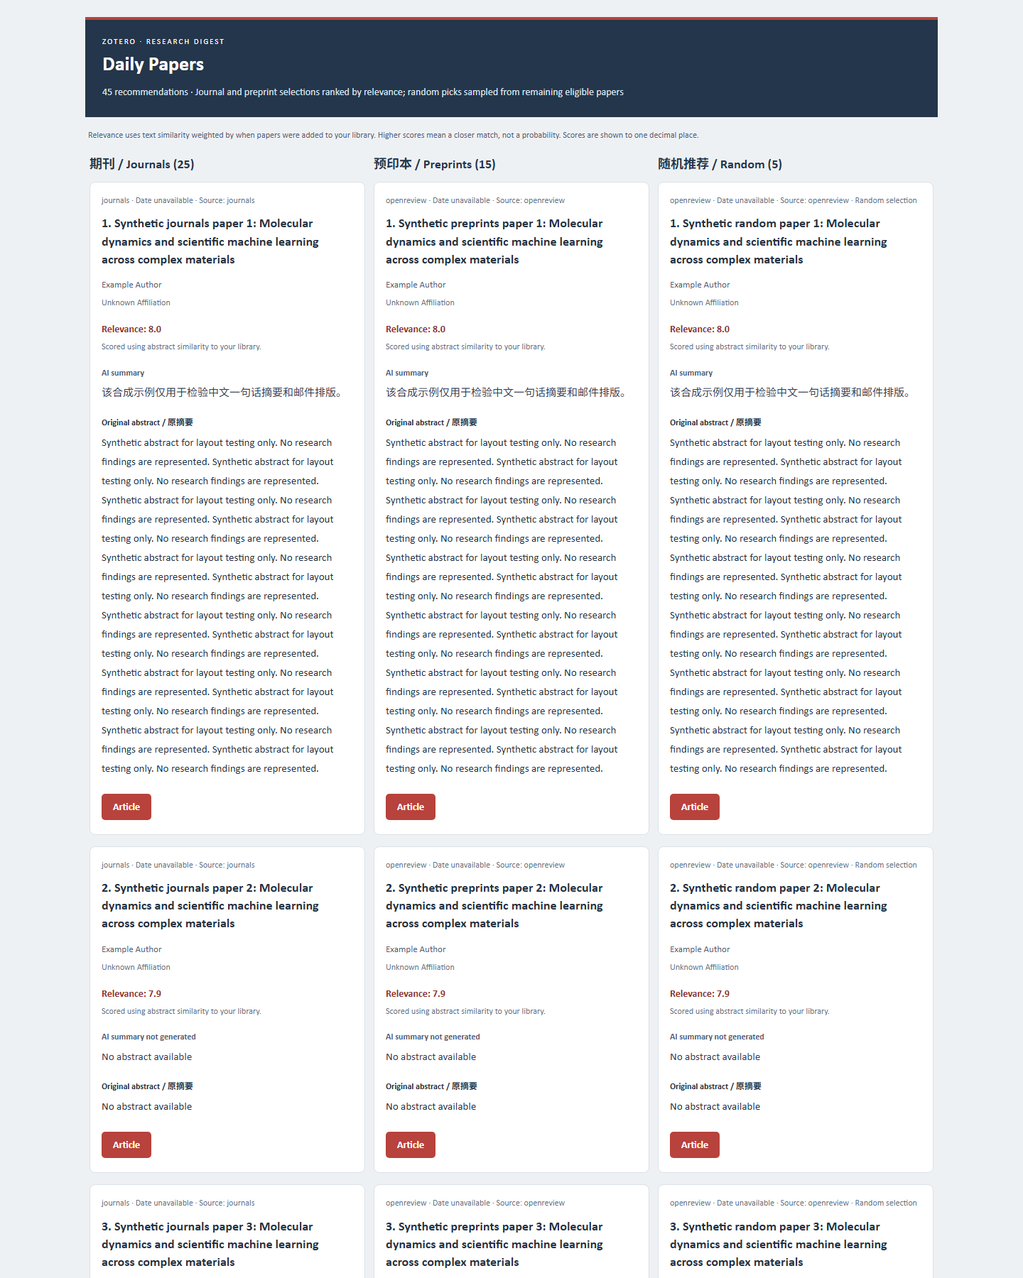
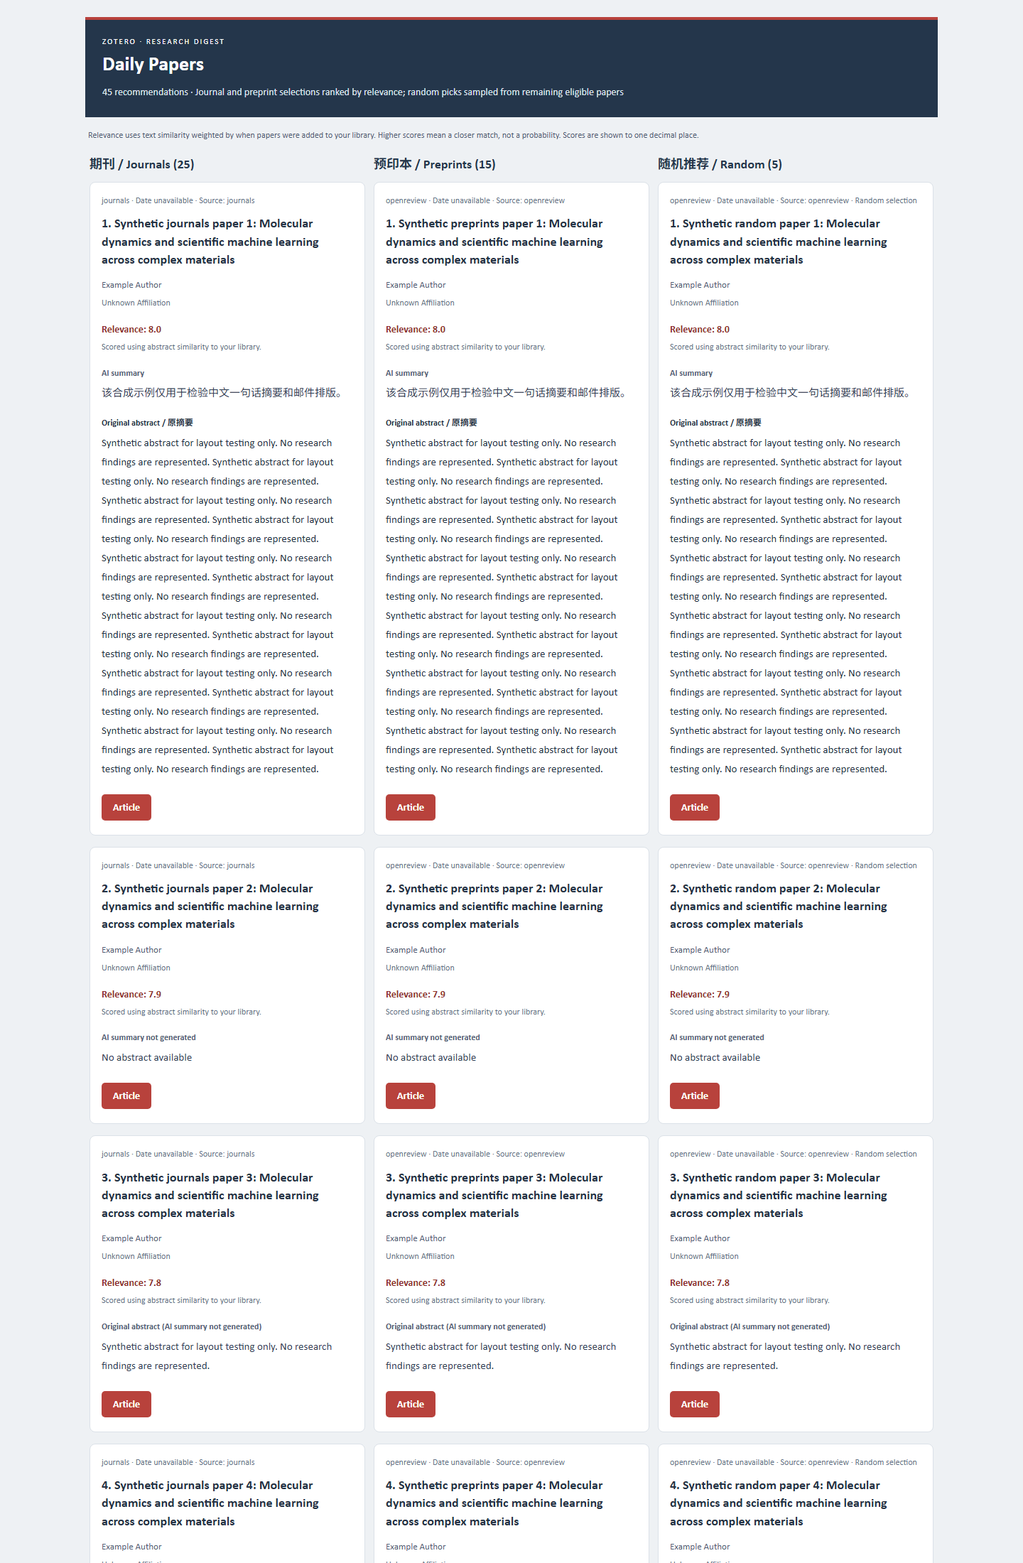
Add summary input modes and preserve abstracts in verified layouts

diff --git a/docs/previews/daily.html b/docs/previews/daily.html
@@ -2,7 +2,7 @@
 <meta name="viewport" content="width=device-width,initial-scale=1">
 <title>Daily Papers</title><style>@media only screen and (max-width:720px){.digest-column{display:block!important;width:100%!important;box-sizing:border-box!important;padding:0 0 18px!important;}}</style></head>
 <body style="font-family:Aptos,Calibri,Arial,Helvetica,sans-serif;margin:0;padding:0;background:#eef1f4;color:#253244;">
-<table role="presentation" width="100%" cellspacing="0" cellpadding="0" border="0" bgcolor="#eef1f4" style="font-family:Aptos,Calibri,Arial,Helvetica,sans-serif;"><tr><td align="center" style="font-family:Aptos,Calibri,Arial,Helvetica,sans-serif;padding:24px 12px;">
+<table role="presentation" width="100%" cellspacing="0" cellpadding="0" border="0" bgcolor="#eef1f4" style="font-family:Aptos,Calibri,Arial,Helvetica,sans-serif;table-layout:fixed;"><tr><td align="center" style="font-family:Aptos,Calibri,Arial,Helvetica,sans-serif;padding:24px 12px;">
 <!--[if mso]><table role="presentation" width="1200" style="font-family:Aptos,Calibri,Arial,Helvetica,sans-serif;"><tr><td style="font-family:Aptos,Calibri,Arial,Helvetica,sans-serif;"><![endif]-->
 <table role="presentation" width="100%" cellspacing="0" cellpadding="0" border="0" style="font-family:Aptos,Calibri,Arial,Helvetica,sans-serif;max-width:1200px;table-layout:fixed;">
 <tr><td style="font-family:Aptos,Calibri,Arial,Helvetica,sans-serif;padding:24px;background:#24364b;border-top:4px solid #b8423c;color:#ffffff;">

diff --git a/docs/previews/empty.html b/docs/previews/empty.html
@@ -2,7 +2,7 @@
 <meta name="viewport" content="width=device-width,initial-scale=1">
 <title>Daily Papers</title><style>@media only screen and (max-width:720px){.digest-column{display:block!important;width:100%!important;box-sizing:border-box!important;padding:0 0 18px!important;}}</style></head>
 <body style="font-family:Aptos,Calibri,Arial,Helvetica,sans-serif;margin:0;padding:0;background:#eef1f4;color:#253244;">
-<table role="presentation" width="100%" cellspacing="0" cellpadding="0" border="0" bgcolor="#eef1f4" style="font-family:Aptos,Calibri,Arial,Helvetica,sans-serif;"><tr><td align="center" style="font-family:Aptos,Calibri,Arial,Helvetica,sans-serif;padding:24px 12px;">
+<table role="presentation" width="100%" cellspacing="0" cellpadding="0" border="0" bgcolor="#eef1f4" style="font-family:Aptos,Calibri,Arial,Helvetica,sans-serif;table-layout:fixed;"><tr><td align="center" style="font-family:Aptos,Calibri,Arial,Helvetica,sans-serif;padding:24px 12px;">
 <!--[if mso]><table role="presentation" width="1200" style="font-family:Aptos,Calibri,Arial,Helvetica,sans-serif;"><tr><td style="font-family:Aptos,Calibri,Arial,Helvetica,sans-serif;"><![endif]-->
 <table role="presentation" width="100%" cellspacing="0" cellpadding="0" border="0" style="font-family:Aptos,Calibri,Arial,Helvetica,sans-serif;max-width:1200px;table-layout:fixed;">
 <tr><td style="font-family:Aptos,Calibri,Arial,Helvetica,sans-serif;padding:24px;background:#24364b;border-top:4px solid #b8423c;color:#ffffff;">

diff --git a/docs/previews/shortage.html b/docs/previews/shortage.html
@@ -2,7 +2,7 @@
 <meta name="viewport" content="width=device-width,initial-scale=1">
 <title>Daily Papers</title><style>@media only screen and (max-width:720px){.digest-column{display:block!important;width:100%!important;box-sizing:border-box!important;padding:0 0 18px!important;}}</style></head>
 <body style="font-family:Aptos,Calibri,Arial,Helvetica,sans-serif;margin:0;padding:0;background:#eef1f4;color:#253244;">
-<table role="presentation" width="100%" cellspacing="0" cellpadding="0" border="0" bgcolor="#eef1f4" style="font-family:Aptos,Calibri,Arial,Helvetica,sans-serif;"><tr><td align="center" style="font-family:Aptos,Calibri,Arial,Helvetica,sans-serif;padding:24px 12px;">
+<table role="presentation" width="100%" cellspacing="0" cellpadding="0" border="0" bgcolor="#eef1f4" style="font-family:Aptos,Calibri,Arial,Helvetica,sans-serif;table-layout:fixed;"><tr><td align="center" style="font-family:Aptos,Calibri,Arial,Helvetica,sans-serif;padding:24px 12px;">
 <!--[if mso]><table role="presentation" width="1200" style="font-family:Aptos,Calibri,Arial,Helvetica,sans-serif;"><tr><td style="font-family:Aptos,Calibri,Arial,Helvetica,sans-serif;"><![endif]-->
 <table role="presentation" width="100%" cellspacing="0" cellpadding="0" border="0" style="font-family:Aptos,Calibri,Arial,Helvetica,sans-serif;max-width:1200px;table-layout:fixed;">
 <tr><td style="font-family:Aptos,Calibri,Arial,Helvetica,sans-serif;padding:24px;background:#24364b;border-top:4px solid #b8423c;color:#ffffff;">

diff --git a/tests/test_daily_features.py b/tests/test_daily_features.py
@@ -163,3 +163,78 @@ def test_original_abstract_always_preserved(group,status,abstract):
         assert 'No abstract available' in html and 'No abstract available' in plain
     if status=='generated':
         assert '该研究提出新方法。' in html and 'Original abstract / 原摘要' in plain
+
+@pytest.mark.parametrize('mode,full_text,expected,reason',[
+    ('abstract','Entire full text','abstract',None),
+    ('full_text','Entire full text','full_text',None),
+    ('full_text',None,'abstract','full_text_unavailable'),
+    ('full_text','Long text '*10000,'abstract','full_text_exceeds_context_limit'),
+])
+def test_summary_input_selection_and_no_fulltext_prefix(mode,full_text,expected,reason,monkeypatch):
+    import zotero_arxiv_daily.protocol as module
+    calls=[]
+    monkeypatch.setattr(module,'truncate_prompt',lambda text,limit:text[:limit])
+    def create(**kwargs):
+        calls.append(kwargs)
+        return SimpleNamespace(choices=[SimpleNamespace(message=SimpleNamespace(content='该研究提出新方法。'))])
+    client=SimpleNamespace(chat=SimpleNamespace(completions=SimpleNamespace(create=create)))
+    p=paper(1,full_text=full_text)
+    p.generate_tldr(client,{'input_mode':mode})
+    assert p.summary_input_source==expected and p.summary_input_fallback==reason
+    assert len(calls)==1
+    prompt=calls[0]['messages'][1]['content']
+    if expected=='full_text':assert full_text in prompt and 'Abstract:' not in prompt
+    else:assert p.abstract in prompt and 'Full text:' not in prompt
+    assert p.abstract in render_email([p])
+
+def test_full_text_budget_fallback_is_one_call(config):
+    from decimal import Decimal
+    from zotero_arxiv_daily.budget import BudgetRequests, utc_day
+    config.llm.budget.enabled=True;config.llm.input_mode='full_text'
+    calls=[]
+    def create(**kwargs):
+        calls.append(kwargs)
+        return SimpleNamespace(choices=[SimpleNamespace(message=SimpleNamespace(content='该研究提出新方法。'))])
+    client=SimpleNamespace(chat=SimpleNamespace(completions=SimpleNamespace(create=create)))
+    p=paper(1,full_text='Full paper '*10000)
+    p.generate_tldr(client,config.llm,BudgetRequests(Decimal('.20'),Decimal('.004608'),utc_day()))
+    assert len(calls)==1 and p.summary_input_source=='abstract'
+    assert p.summary_input_fallback=='full_text_exceeds_budget_input_bound'
+    assert p.summary_input_fallback in render_email([p])
+
+def test_abstract_mode_never_fetches_fulltext(config):
+    from zotero_arxiv_daily.executor import Executor
+    from zotero_arxiv_daily.llm import ModelRequests
+    executor=Executor.__new__(Executor);executor.config=config;executor.openai_client=None
+    executor.model_requests=ModelRequests()
+    executor.retrievers={'journals':SimpleNamespace(enrich=lambda p:pytest.fail('abstract mode fetched full text'))}
+    executor._enrich(paper(1))
+
+@pytest.mark.parametrize('fields',[
+    {'primary_area':['unrelated'], 'secondary_area':['ai_4_physical_sciences']},
+    {'primary_area':'applications->chemistry_physics_and_earth_sciences'},
+    {'primary_area':'applications to physical sciences (physics, chemistry, biology, etc.)'},
+])
+def test_venue_schema_subject_aliases(config,fields):
+    r=retriever(config)
+    assert r.convert_to_paper(note(r,**fields)).subject_match_reason.startswith('subject field')
+
+def test_corl_author_keyword_gate(config):
+    r=retriever(config)
+    raw=note(r,title='Robot planning',abstract='Experiments',primary_area=None,free_keyword_1='molecular dynamics')
+    assert r.convert_to_paper(raw)
+
+def test_next_year_iclr_group_discovery(config):
+    r=retriever(config);seen=[]
+    def get(client,path,params):
+        identity=params['id'];seen.append(identity)
+        return {'groups':[{'id':identity,'content':{'submission_id':{'value':identity+'/-/Submission'}}}]}
+    r._get=get
+    groups=list(r._groups(None,'ICLR',2026))
+    assert 'ICLR.cc/2027/Conference' in seen
+    assert all('/Workshop' not in group for group,inv in groups)
+
+def test_invalid_summary_mode_fails_before_source_or_api_setup(config):
+    from zotero_arxiv_daily.executor import Executor
+    config.llm.input_mode='prefix'
+    with pytest.raises(ValueError,match='input_mode'):Executor(config)

diff --git a/src/zotero_arxiv_daily/protocol.py b/src/zotero_arxiv_daily/protocol.py
@@ -47,6 +47,8 @@ class Paper:
     abstract_source: Optional[str] = None
     subject_match_reason: Optional[str] = None
     scoring_basis: str = "abstract"
+    summary_input_source: Optional[str] = None
+    summary_input_fallback: Optional[str] = None
     tldr_status: Optional[str] = None
     tldr_error: Optional[str] = None
 
@@ -67,28 +69,36 @@ class Paper:
 
     def _generate_tldr_with_llm(self, openai_client:OpenAI,llm_params:dict) -> str:
         lang = llm_params.get('language', 'Chinese')
-        prompt = f"Given the following information of a paper, generate a one-sentence TLDR summary in {lang}:\n\n"
-        if self.title:
-            prompt += f"Title:\n {self.title}\n\n"
-
-        if self.abstract:
-            prompt += f"Abstract: {self.abstract}\n\n"
-
-        if self.full_text:
-            prompt += f"Preview of main content:\n {self.full_text}\n\n"
-
-        if not self.full_text and not self.abstract:
-            logger.warning(f"Neither full text nor abstract is provided for {self.url}")
-            return "Failed to generate TLDR. Neither full text nor abstract is provided"
-        
-        # use gpt-4o tokenizer for estimation
+        mode = llm_params.get('input_mode', 'abstract')
+        if mode not in ('abstract', 'full_text'):
+            raise ValueError('llm.input_mode must be abstract or full_text')
         budgeted = llm_params.get('budget', {}).get('enabled', False)
+        self.summary_input_source, self.summary_input_fallback = 'abstract', None
+        title = self.title
         if budgeted:
-            short_title = self.title.encode('utf-8')[:128].decode('utf-8', errors='ignore')
-            prompt = f'Title: {short_title}\nAbstract: {self.abstract}'
-            prompt = prompt.encode('utf-8')[:PROMPT_BYTES].decode('utf-8', errors='ignore')
+            title = title.encode('utf-8')[:128].decode('utf-8', errors='ignore')
+        full_prompt = f'Title: {title}\nFull text:\n{self.full_text or ""}'
+        if mode == 'full_text':
+            if not self.full_text:
+                self.summary_input_fallback = 'full_text_unavailable'
+            elif budgeted and len(full_prompt.encode('utf-8')) > PROMPT_BYTES:
+                self.summary_input_fallback = 'full_text_exceeds_budget_input_bound'
+            elif not budgeted and truncate_prompt(full_prompt, 4000) != full_prompt:
+                self.summary_input_fallback = 'full_text_exceeds_context_limit'
+            else:
+                self.summary_input_source = 'full_text'
+        if self.summary_input_source == 'full_text':
+            prompt = full_prompt  # Entire retrieved text, never a prefix labeled as full text.
         else:
-            prompt = truncate_prompt(prompt, 4000)
+            if self.summary_input_fallback:
+                logger.warning(f'Summary input fallback to abstract: {self.summary_input_fallback}')
+            if not self.abstract:
+                raise ValueError('No usable summary input after full-text fallback')
+            prompt = f'Title: {title}\nAbstract: {self.abstract}'
+            if budgeted:
+                prompt = prompt.encode('utf-8')[:PROMPT_BYTES].decode('utf-8', errors='ignore')
+            else:
+                prompt = truncate_prompt(prompt, 4000)
         system = f'Return exactly one sentence in {lang} summarizing the scientific evidence. No heading, list, or invented claims.'
         kwargs = dict(llm_params.get('generation_kwargs', {}))
         if budgeted:
@@ -116,7 +126,7 @@ class Paper:
     
     def generate_tldr(self, openai_client:OpenAI,llm_params:dict, requests=None) -> str:
         self.tldr_error = None
-        if not self.abstract and (not self.full_text or llm_params.get('budget', {}).get('enabled', False)):
+        if not self.abstract and (llm_params.get('input_mode', 'abstract') != 'full_text' or not self.full_text):
             self.tldr, self.tldr_status = '', 'not_generated'
             return self.tldr
         try:

diff --git a/src/zotero_arxiv_daily/budget.py b/src/zotero_arxiv_daily/budget.py
@@ -33,6 +33,8 @@ def utc_day():
 
 def budget_plan(config):
     budget = config.get('budget', {})
+    if budget.get('enabled', True) is not True:
+        raise BudgetUnavailable('Budget guard disabled: paid calls prohibited, not unlimited')
     cap = Decimal(str(budget.get('daily_cny', '0.20')))
     if not cap.is_finite() or not 0 < cap <= MAX_DAILY_CNY:
         raise BudgetUnavailable('Daily CNY budget must be positive and no more than 0.20')
@@ -53,7 +55,10 @@ def budget_plan(config):
 
 
 def git(*args, **kwargs):
-    result = subprocess.run(['git', *args], capture_output=True, **kwargs)
+    try:
+        result = subprocess.run(['git', *args], capture_output=True, timeout=60, **kwargs)
+    except (OSError, subprocess.TimeoutExpired) as exc:
+        raise BudgetUnavailable('Budget ledger Git operation unavailable; no model call authorized') from exc
     if result.returncode:
         raise BudgetUnavailable('Budget ledger Git operation failed; no model call authorized')
     return result.stdout.strip()
@@ -68,7 +73,10 @@ def reserve_day(cap, day=None):
         git('fetch', '--no-tags', 'origin', f'refs/heads/{branch}')
         parent = git('rev-parse', 'FETCH_HEAD').decode()
         exists = subprocess.run(['git', 'cat-file', '-e', f'{parent}:{name}'], capture_output=True)
-        data = json.loads(git('show', f'{parent}:{name}')) if exists.returncode == 0 else {'version': 1, 'days': {}}
+        try:
+            data = json.loads(git('show', f'{parent}:{name}')) if exists.returncode == 0 else {'version': 1, 'days': {}}
+        except (ValueError, TypeError) as exc:
+            raise BudgetUnavailable('Invalid budget ledger; preserve and investigate') from exc
         if not isinstance(data, dict) or data.get('version') != 1 or not isinstance(data.get('days'), dict):
             raise BudgetUnavailable('Invalid budget ledger; preserve and investigate')
         if day in data['days']:
@@ -85,7 +93,10 @@ def reserve_day(cap, day=None):
             git('update-index','--add','--cacheinfo',f'100644,{blob},{name}',env=config)
             tree = git('write-tree',env=config).decode()
             commit = git('commit-tree',tree,'-p',parent,'-m','Reserve daily LLM budget before requests',env=config).decode()
-            pushed = subprocess.run(['git','push','origin',f'{commit}:refs/heads/{branch}'],capture_output=True)
+            try:
+                pushed = subprocess.run(['git','push','origin',f'{commit}:refs/heads/{branch}'],capture_output=True,timeout=60)
+            except (OSError, subprocess.TimeoutExpired) as exc:
+                raise BudgetUnavailable('Budget reservation push ambiguous; no paid calls authorized') from exc
             if pushed.returncode == 0:
                 return day
             # A concurrent writer may have advanced the branch. Re-fetch and

diff --git a/src/zotero_arxiv_daily/executor.py b/src/zotero_arxiv_daily/executor.py
@@ -39,6 +39,8 @@ def normalize_path_patterns(patterns: list[str] | ListConfig | None, config_key:
 class Executor:
     def __init__(self, config: DictConfig):
         self.config = config
+        if config.llm.get("input_mode", "abstract") not in ("abstract", "full_text"):
+            raise ValueError("llm.input_mode must be abstract or full_text")
         self.include_path_patterns = normalize_path_patterns(config.zotero.include_path, "include_path")
         self.ignore_path_patterns = normalize_path_patterns(config.zotero.ignore_path, "ignore_path")
         self.retrievers = {source: get_retriever_cls(source)(config) for source in enabled_sources(config)}
@@ -106,7 +108,7 @@ class Executor:
         return corpus
 
     def _enrich(self, paper):
-        if self.config.executor.get('fetch_full_text', True):
+        if self.config.llm.get('input_mode', 'abstract') == 'full_text' and self.openai_client:
             retriever = self.retrievers.get(paper.source)
             if retriever:
                 try:
@@ -214,16 +216,13 @@ class Executor:
         ranked = select_papers(ranked, quotas, pending)[:maximum]
         if ranked and self.config.llm.get('enabled', True):
             try:
-                if self.config.llm.get('budget', {}).get('enabled', False):
-                    self.model_requests = prepare_budget(self.config.llm)
-                    self.openai_client = OpenAI(api_key=self.config.llm.api.key, base_url=self.config.llm.api.base_url, max_retries=0)
-                else:
-                    self.openai_client = OpenAI(api_key=self.config.llm.api.key, base_url=self.config.llm.api.base_url)
+                self.model_requests = prepare_budget(self.config.llm)
+                self.openai_client = OpenAI(api_key=self.config.llm.api.key, base_url=self.config.llm.api.base_url, max_retries=0)
             except BudgetUnavailable as exc:
                 self.llm_blocked_reason = str(exc)
                 logger.warning(f'LLM budget guard: {exc}')
         # Fork-based PDF extraction must run outside worker threads.
-        if workers > 1 and not self.config.executor.get('fetch_full_text', True):
+        if workers > 1 and self.config.llm.get('input_mode', 'abstract') != 'full_text':
             with ThreadPoolExecutor(max_workers=workers) as pool:
                 ranked = list(pool.map(self._enrich, ranked))
         else:

diff --git a/tests/test_budget.py b/tests/test_budget.py
@@ -11,11 +11,13 @@ from zotero_arxiv_daily.protocol import Paper
 
 
 def test_production_pricing_is_fail_closed(config):
+    config.llm.budget.enabled=True
     with pytest.raises(budget.BudgetUnavailable,match='not verified'):
         budget.budget_plan(config.llm)
 
 
 def test_verified_plan_rejects_unknown_endpoint_model_and_limit(config,monkeypatch):
+    config.llm.budget.enabled=True
     monkeypatch.setattr(budget,'VERIFIED_PRICING',{'host':'test.example','model':'test-model','valid_through':'2099-01-01','input_cny_per_million':'3','output_cny_per_million':'9'})
     config.llm.api.base_url='https://test.example/v1';config.llm.generation_kwargs.model='test-model'
     cap,cost=budget.budget_plan(config.llm)
@@ -115,3 +117,28 @@ def test_unicode_prompt_bound_and_reasoning_stops_calls(config,monkeypatch):
     assert request['n']==1 and request['max_tokens']==128 and request['extra_body']=={'enable_thinking':False}
     p.generate_tldr(client,config.llm,guard)
     assert len(calls)==1
+
+
+def test_disabled_budget_does_not_mean_unlimited(config):
+    config.llm.budget.enabled=False
+    with pytest.raises(budget.BudgetUnavailable,match='paid calls prohibited'):
+        budget.budget_plan(config.llm)
+
+
+def test_executor_fail_closed_retains_abstract_without_client(config,monkeypatch,tmp_path):
+    from zotero_arxiv_daily.executor import Executor
+    from zotero_arxiv_daily.state import State
+    from tests.canned_responses import make_stub_zotero_client,make_sample_paper
+    from zotero_arxiv_daily.reranker.api import ApiReranker
+    import numpy as np
+    monkeypatch.setattr('zotero_arxiv_daily.executor.prepare_budget',budget.prepare_budget)
+    monkeypatch.setattr('zotero_arxiv_daily.executor.OpenAI',lambda **kw:pytest.fail('Blocked budget created client'))
+    monkeypatch.setattr('zotero_arxiv_daily.executor.zotero.Zotero',lambda *a,**kw:make_stub_zotero_client())
+    monkeypatch.setattr(ApiReranker,'get_similarity_score',lambda self,a,b:np.ones((len(a),len(b))))
+    config.llm.budget.enabled=True
+    executor=Executor(config)
+    p=make_sample_paper()
+    monkeypatch.setattr(executor.retrievers['arxiv'],'retrieve_papers',lambda:[p])
+    selected=executor._recommend(State(tmp_path/'state.json'),[],10,1)
+    assert selected and selected[0].tldr==p.abstract
+    assert selected[0].tldr_error=='budget_unavailable'

diff --git a/src/zotero_arxiv_daily/construct_email.py b/src/zotero_arxiv_daily/construct_email.py
@@ -28,7 +28,7 @@ framework = '''<!doctype html><html lang="en"><head><meta charset="utf-8">
 <meta name="viewport" content="width=device-width,initial-scale=1">
 <title>Daily Papers</title><style>@media only screen and (max-width:720px){.digest-column{display:block!important;width:100%!important;box-sizing:border-box!important;padding:0 0 18px!important;}}</style></head>
 <body style="font-family:Aptos,Calibri,Arial,Helvetica,sans-serif;margin:0;padding:0;background:#eef1f4;color:#253244;">
-<table role="presentation" width="100%" cellspacing="0" cellpadding="0" border="0" bgcolor="#eef1f4" style="font-family:Aptos,Calibri,Arial,Helvetica,sans-serif;"><tr><td align="center" style="font-family:Aptos,Calibri,Arial,Helvetica,sans-serif;padding:24px 12px;">
+<table role="presentation" width="100%" cellspacing="0" cellpadding="0" border="0" bgcolor="#eef1f4" style="font-family:Aptos,Calibri,Arial,Helvetica,sans-serif;table-layout:fixed;"><tr><td align="center" style="font-family:Aptos,Calibri,Arial,Helvetica,sans-serif;padding:24px 12px;">
 <!--[if mso]><table role="presentation" width="1200" style="font-family:Aptos,Calibri,Arial,Helvetica,sans-serif;"><tr><td style="font-family:Aptos,Calibri,Arial,Helvetica,sans-serif;"><![endif]-->
 <table role="presentation" width="100%" cellspacing="0" cellpadding="0" border="0" style="font-family:Aptos,Calibri,Arial,Helvetica,sans-serif;max-width:1200px;table-layout:fixed;">
 <tr><td style="font-family:Aptos,Calibri,Arial,Helvetica,sans-serif;padding:24px;background:#24364b;border-top:4px solid #b8423c;color:#ffffff;">
@@ -86,6 +86,10 @@ def render_email(papers: list[Paper]) -> str:
             metadata = f'{p.journal or p.source} · {date} · Source: {p.source}'
             if group == 'random':
                 metadata += ' · Random selection'
+            if p.summary_input_source:
+                metadata += f' · Summary input: {p.summary_input_source}'
+                if p.summary_input_fallback:
+                    metadata += f' ({p.summary_input_fallback})'
             if p.abstract_source:
                 metadata += f' · Abstract: {p.abstract_source}'
             block = get_block_html(p.title, ', '.join(authors), round(p.score, 1) if p.score is not None else 'Unknown',

diff --git a/tests/test_pipeline.py b/tests/test_pipeline.py
@@ -67,6 +67,10 @@ def test_enrichment_runs_only_for_selected_papers(pipeline, monkeypatch):
     with open_dict(pipeline):
         pipeline.executor.max_paper_num = 1
         pipeline.executor.fetch_full_text = True
+        pipeline.llm.input_mode = 'full_text'
+        pipeline.llm.enabled = True
+    from tests.canned_responses import make_stub_openai_client
+    monkeypatch.setattr('zotero_arxiv_daily.executor.OpenAI', lambda **kwargs: make_stub_openai_client())
     executor = Executor(pipeline)
     papers = [make_sample_paper(title=f'Paper {i}', url=f'https://example.org/{i}') for i in range(3)]
     monkeypatch.setattr(executor.retrievers['arxiv'], 'retrieve_papers', lambda: papers)

diff --git a/tests/conftest.py b/tests/conftest.py
@@ -51,9 +51,12 @@ def _base_config():
 
 
 @pytest.fixture()
-def config(_base_config):
+def config(_base_config, monkeypatch):
     """Function-scoped deep copy of the session config.
 
     Safe to mutate inside any test without polluting other tests.
     """
+    # Pipeline unit tests stub providers; no remote budget writes may occur.
+    from zotero_arxiv_daily.llm import ModelRequests
+    monkeypatch.setattr('zotero_arxiv_daily.executor.prepare_budget', lambda _: ModelRequests())
     return copy.deepcopy(_base_config)

diff --git a/src/zotero_arxiv_daily/retriever/arxiv_retriever.py b/src/zotero_arxiv_daily/retriever/arxiv_retriever.py
@@ -95,7 +95,7 @@ def _extract_text_from_html_worker(html_url: str) -> str | None:
     downloaded = trafilatura.fetch_url(html_url)
     if downloaded is None:
         raise ValueError(f"Failed to download HTML from {html_url}")
-    text = trafilatura.extract(downloaded, include_comments=False, include_tables=False)
+    text = trafilatura.extract(downloaded, include_comments=False, include_tables=True)
     if not text:
         raise ValueError(f"No text extracted from {html_url}")
     return text
